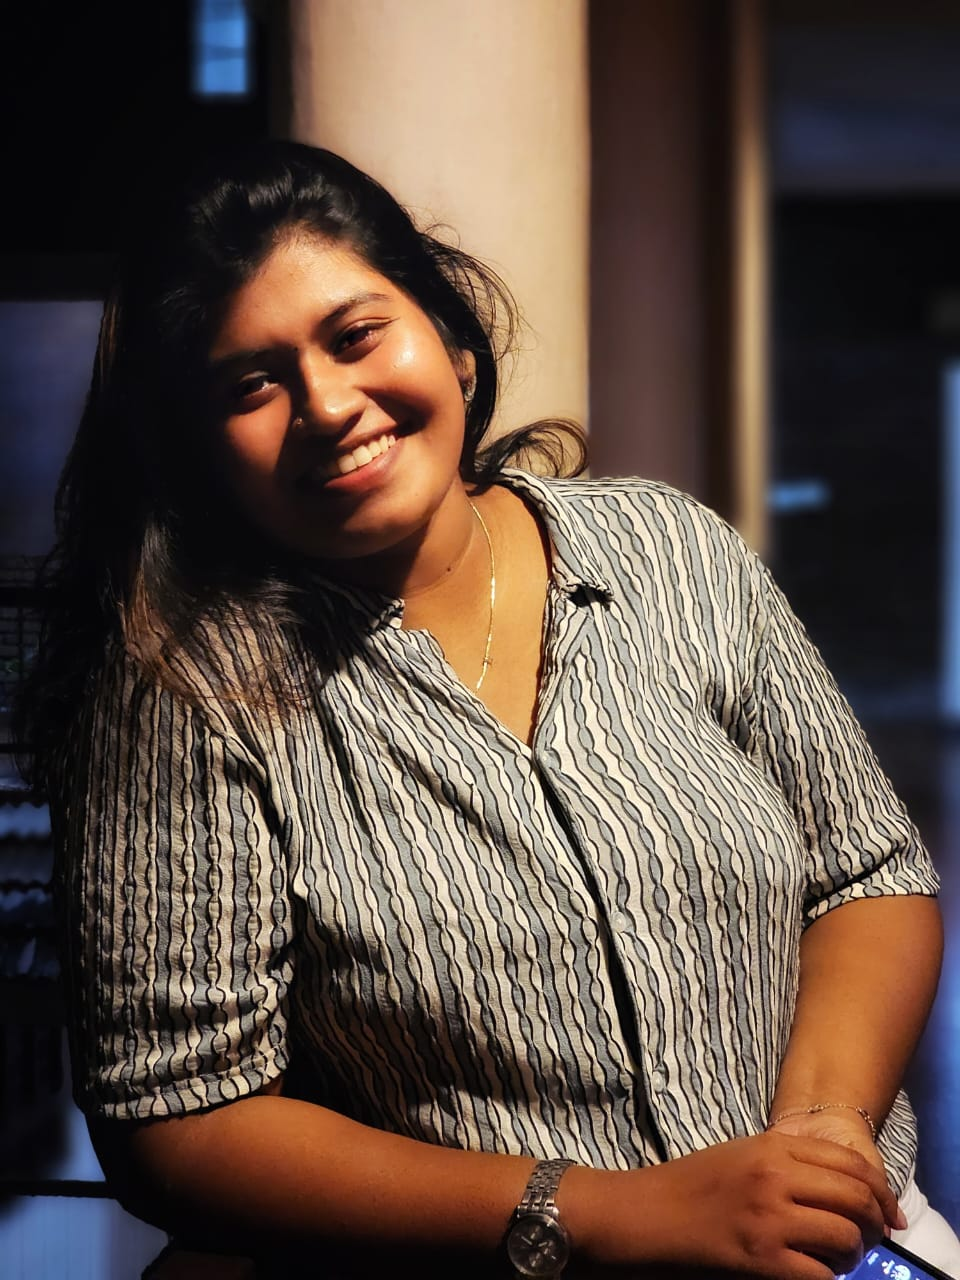
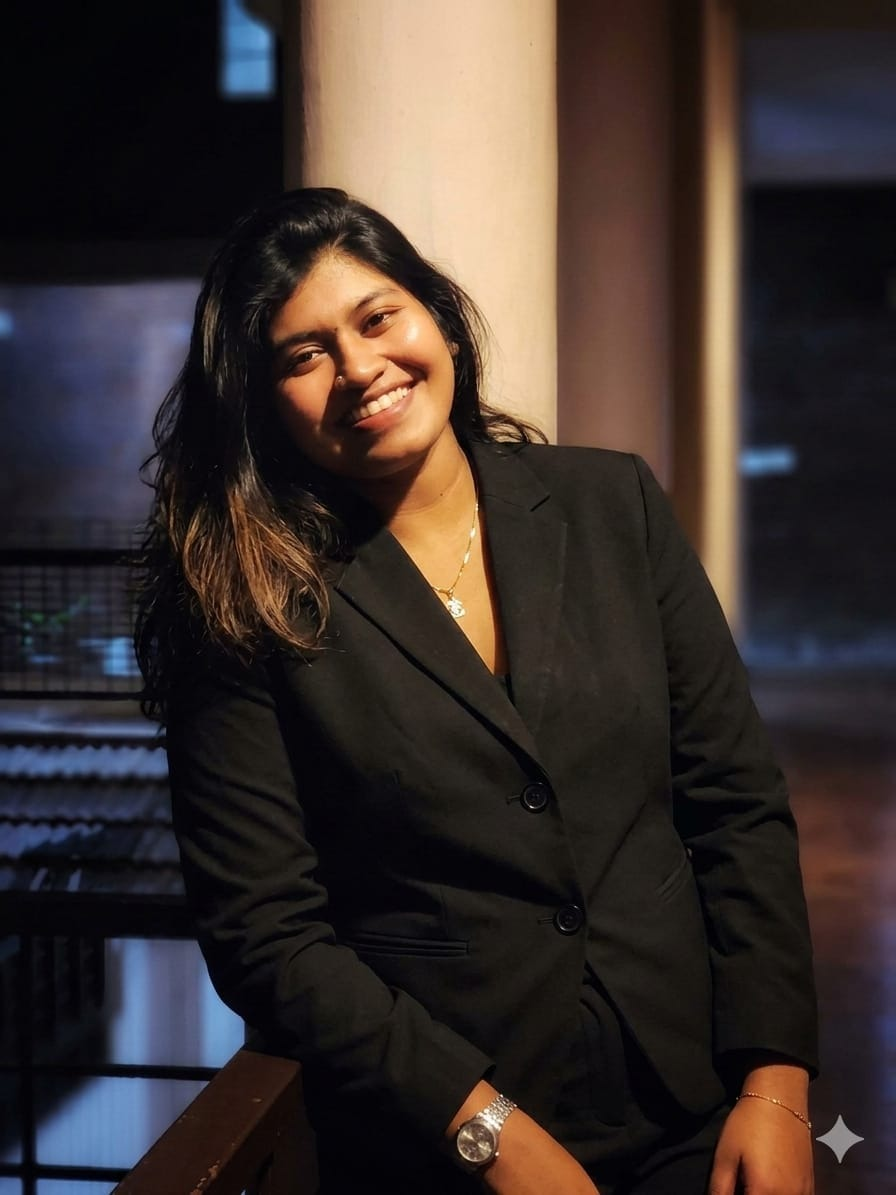
ticket redirecting and team section images changed

diff --git a/src/components/TeamSection.jsx b/src/components/TeamSection.jsx
@@ -101,20 +101,20 @@ const teamArchitecture = [
    // ROW 1
    [
       { name: "Shivani Vijayaraghavan", role: "Organizer", img: "shivanivijayaraghavan.jpeg" },
-      { name: "Alan Biju", role: "Co-Organizer", img: "Photo.jpg" },
-      { name: "Josu Denny", role: "Production Lead", img: "Josu Denny.jpg" }
+      { name: "Alan Biju", role: "Co-Organizer", img: "Alan.jpeg" },
+      { name: "Josu Denny", role: "Production Lead", img: "Josu Denny.jpeg" }
    ],
    // ROW 2
    [
-      { name: "Abel Biju George", role: "Marketing Lead", img: "Abel_Biju_George.jpg" },
+      { name: "Abel Biju George", role: "Marketing Lead", img: "Abel_Biju_George.jpeg" },
       { name: "Rebecca Mary Varughese", role: "Curation Lead", img: "Rebecca Mary Varughese.jpeg" },
       { name: "Neha Biju", role: "Editorial Lead", img: "Neha.jpeg" }
    ],
    // ROW 3
    [
-      { name: "Bava Kurian", role: "Web Lead", img: "Bava Kurian .jpeg" },
-      { name: "Vidyasagar R", role: "Web Co-Lead", img: "Vidya.JPG" },
-      { name: "Neil Abraham", role: "Media Lead", img: null }
+      { name: "Bava Kurian", role: "Web Lead", img: "Bava Kurian.jpeg" },
+      { name: "Vidyasagar R", role: "Web Co-Lead", img: "Vidya.jpeg" },
+      { name: "Neil Abraham", role: "Media Lead", img: "Neil_Abraham.jpeg" }
    ]
 ]
 

diff --git a/src/components/EnvironmentLayer.jsx b/src/components/EnvironmentLayer.jsx
@@ -28,7 +28,7 @@ export default function EnvironmentLayer() {
   const [positions, scales, colorsArray] = useMemo(() => {
     const isMobile = window.innerWidth < 768;
     // Cap strictly on mobile, or fallback to GPU Tier parsing for desktop
-    const count = isMobile ? 4000 : (tier === 0 ? 10000 : tier === 1 ? 20000 : 50000);
+    const count = isMobile ? 7000 : (tier === 0 ? 10000 : tier === 1 ? 20000 : 50000);
     const pos = new Float32Array(count * 3)
     const scale = new Float32Array(count)
     const colors = new Float32Array(count * 3)

diff --git a/src/components/TicketSection.jsx b/src/components/TicketSection.jsx
@@ -244,7 +244,7 @@ export default function TicketSection() {
               <rect x="35" y="35" width="10" height="10" />
             </svg>
           </div>
-          <a href="#register" className="book-button">BOOK NOW</a>
+          <a href="https://events.amaljyothi.ac.in/events/yr2o47" target="_blank" rel="noopener noreferrer" className="book-button">BOOK NOW</a>
           <div className="stub-id">#ORIGIN-2026-TX</div>
         </div>
       </div>

diff --git a/src/components/ThemeReveal.jsx b/src/components/ThemeReveal.jsx
@@ -25,7 +25,7 @@ function LogoParticles({ position }) {
   const { tier } = useDetectGPU()
 
   // Ensure full coverage by scaling density/size
-  const INSTANCE_COUNT = tier === 0 ? 2000 : tier === 1 ? 4000 : 8000
+  const INSTANCE_COUNT = tier === 0 ? 4000 : tier === 1 ? 4000 : 8000
   const particleSize = tier === 0 ? 0.4 : tier === 1 ? 0.25 : 0.15
   
   const particleTex = useMemo(() => createParticleTexture(), [])

diff --git a/src/components/Hero.jsx b/src/components/Hero.jsx
@@ -35,7 +35,7 @@ export default function Hero() {
   const { tier } = useDetectGPU()
 
   // GPU Matrix sizing
-  const particleCount = tier === 0 ? 2000 : tier === 1 ? 5000 : 10000
+  const particleCount = tier === 0 ? 4000 : tier === 1 ? 5000 : 10000
   const particleSize = tier === 0 ? 0.3 : tier === 1 ? 0.2 : 0.15
 
   const particleTex = useMemo(() => createParticleTexture(), [])
